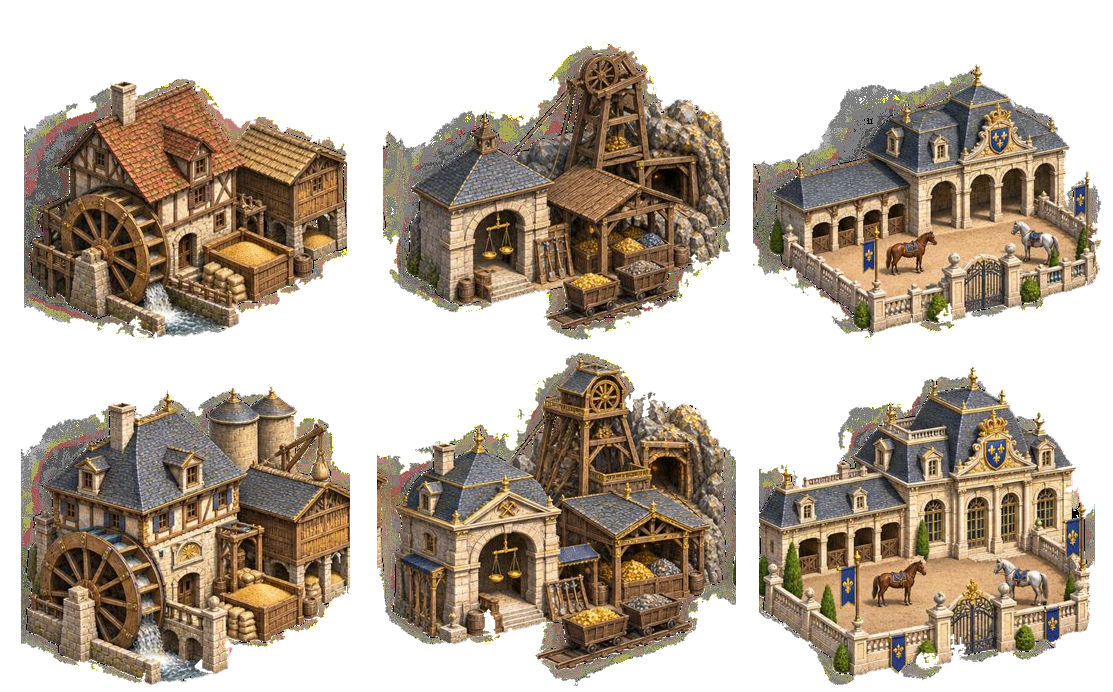
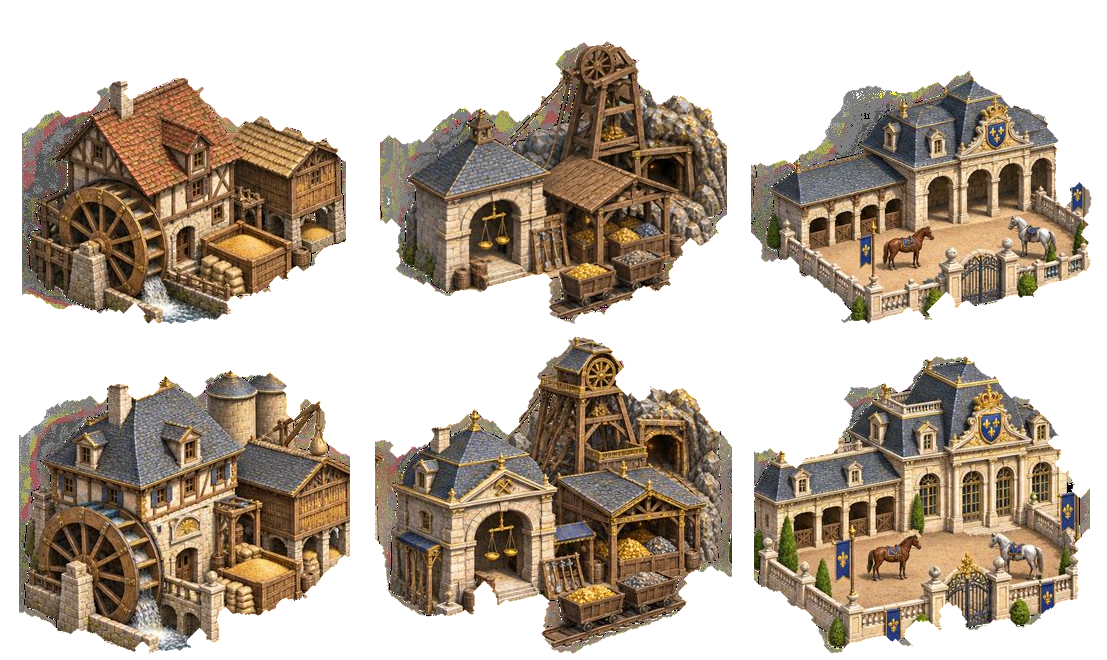
Functional buildings: trim the grey inner band of the baked fake transparency (6 px outer trim); production-render shots (lobby per nation desktop/phone, mining camp/mill/lumber camp next to resources) in docs/art/lobby-buildings
Claude-Session: https://claude.ai/code/session_017b22STifEBppPUfF3AciFC

diff --git a/scripts/art/key_functional_buildings.py b/scripts/art/key_functional_buildings.py
@@ -72,6 +72,10 @@ for r in range(ROWS):
                 ok[i] = True
         keep[y0:y1, x0:x1] = ok[l]
 keep = ndimage.binary_fill_holes(keep) | (keep & fg)
+# What the growth above cannot tell from painted stone is the inner, grey part of the baked band (5-8 px wide on the source).
+# Trim the outer silhouette by ERODE px (about 2-3 screen px at the in-game size); interior holes are not touched.
+ERODE = 6
+keep = ndimage.binary_erosion(keep, iterations=ERODE, border_value=0) | (keep & ~ndimage.binary_dilation(~keep & bg, iterations=ERODE))
 # soft edge: blur the hard mask a little, but never make interior pixels transparent
 soft = ndimage.gaussian_filter(keep.astype(np.float32), 0.6)
 alpha = np.where(ndimage.binary_erosion(keep, iterations=1), 1.0, np.clip(soft * keep + soft * 0.5 * ~keep, 0, 1))
